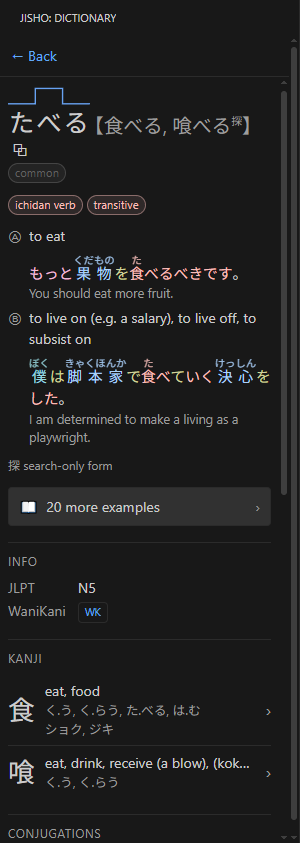
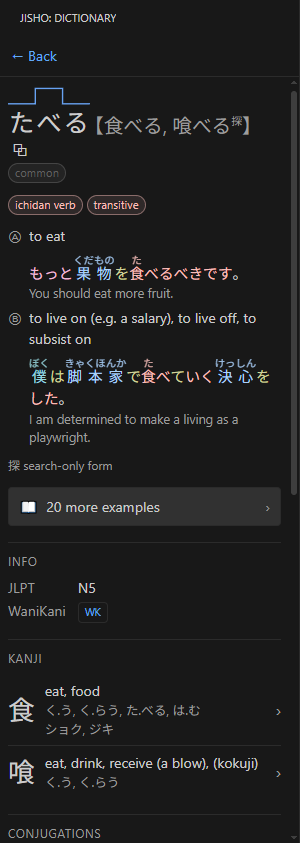
fix(docs): capture the hover on Markdown, and spec code-file support (#18)
The editor-hover screenshot was skipped as "flaky automation". It was not: the
hover provider registers for ["markdown", "plaintext"] only, so hovering
Japanese in a .ts comment does nothing. Every failure was the feature correctly
not applying, and several rounds went into automation theories — TypeScript's
hover winning the dwell, Monaco virtualising lines, character offsets landing in
the wrong span — before checking whether the provider was there at all.

The capture now uses the Markdown study-note fixture and passes, showing a real
entry: reading, definition, POS pills, an example sentence, "Open in Jisho".

Spec 18 records what a code-file version needs. It also answers the user's
question about `/* md */` language hints: those work by injecting a TextMate
grammar, which drives COLOURING only — it does not register a hover provider and
does not change `document.languageId`, so our selector still would not match.
The two mechanisms are separate in VS Code's own docs. Comments-only is the
recommended target, and it is the better one anyway: measured, a string literal
is contested (TypeScript wins the position) while a comment has no competing
provider and is unambiguously prose.

`checkout.ts` is kept as a fixture — it is the scenario to capture once spec 18
ships.

Changed region(s): [[0.9, 0.0308, 0.99, 0.987], [0.81, 0.8944, 0.87, 0.9253], [0.93, 0.987, 0.96, 1.0]]

diff --git a/e2e/docs/manual.docs.e2e.ts b/e2e/docs/manual.docs.e2e.ts
@@ -209,65 +209,38 @@ test("capture: browsing by category", async () => {
   });
 });
 
-/**
- * UNFINISHED — the editor hover capture.
- *
- * WHY it is wanted: hovering Japanese in a codebase is the extension's home turf, and the one thing
- * a screenshot shows that prose cannot — a definition arriving without leaving the file.
- *
- * WHY it is skipped: driving VS Code's hover from Playwright is the flakiest thing in this harness,
- * and it resisted several rounds. What was established along the way, so the next attempt does not
- * repeat it:
- *
- *  - Inside a STRING literal, TypeScript's language service owns the position and wins the dwell —
- *    the card said "(property) outOfStock: …" rather than showing the dictionary entry.
- *  - Monaco VIRTUALISES lines: an off-screen one measures 0×0 at (0,0), so the pointer goes to the
- *    window's corner, and `scrollIntoViewIfNeeded` fails with "Element is not attached to the DOM".
- *    Move the cursor (Go to Line) instead of scrolling a locator.
- *  - `hoverEditorWord` indexes characters into the line's FIRST text span, so leading indentation
- *    and syntax-highlighting splits both shift every offset. The fixture now carries an unindented
- *    top-level comment for this reason.
- *  - The card renders its shell before the provider resolves, so a capture can catch "(loading...)".
- *    Assert on the content, not just the card.
- *
- * Even with all of that, the dwell does not reliably produce a card here while the sidebar is open;
- * `smoke.e2e.ts` drives the same helper successfully against an UNTITLED editor, which is the next
- * thing to try. Until it is solved the README uses the panel captures, which all work.
- */
-test.skip("capture: a hover in a source file", async () => {
+test("capture: a hover in a study note", async () => {
+  // WHY: a definition arriving without leaving the file is the one thing a screenshot shows that
+  // prose cannot.
+  //
+  // A MARKDOWN fixture, not a code file. The hover provider registers for ["markdown", "plaintext"]
+  // only (src/extension.ts), so Japanese in a .ts comment gets nothing — which is what several
+  // rounds of failed automation here were actually telling us. Spec 18 covers extending it; until
+  // then, capturing markdown is what the extension honestly does.
   const win = vscode!.window;
   await captureBothThemes(
     vscode!,
     "editor-hover",
     async () => {
-      await openFixture(win, "checkout.ts");
-      // The fixture carries an UNINDENTED top-level `//` comment for exactly this capture, and the
-      // choice is load-bearing twice over. Measured: hovering Japanese inside a STRING literal got
-      // TypeScript's own hover instead — "(property) outOfStock: ..." — because the language
-      // service owns that position and wins the dwell. And `hoverEditorWord` indexes characters
-      // into the line's first text span, so any leading indentation shifts every offset.
-      //
+      await openFixture(win, "reading-notes.md");
       // Near the top of the file, so nothing needs scrolling: Monaco virtualises its lines, and an
       // off-screen one measures 0x0 at (0,0), which puts the pointer in the window's corner.
       const line = win
-        .locator(".view-line", { hasText: "在庫を確認してから決済に進みます" })
+        .locator(".view-line", { hasText: "毎日日本語を勉強します" })
         .first();
       await expect(line).toBeVisible();
-      // Index 3 skips the "// " prefix; the word is the first thing after it.
       const hover = await hoverEditorWord(
         win,
-        "在庫を確認してから決済に進みます",
-        3,
-        18,
-        "在庫"
+        "毎日日本語を勉強します",
+        0,
+        11,
+        "毎日"
       );
-      // Wait for the ENTRY, not merely the card. VS Code renders the hover shell immediately and
-      // fills it in when the provider resolves, so an earlier capture caught "(loading...)" — a
-      // picture of the extension appearing not to work.
+      // Wait for the ENTRY, not merely the card: VS Code renders the hover shell immediately and
+      // fills it in when the provider resolves, so a capture can catch "(loading...)".
       await expect(hover).not.toContainText("loading");
       return hover;
-      // `keepPointer`: the hover card IS the subject here, and parking the pointer dismisses it — the
-      // card then detaches and the screenshot fails on a stale element.
+      // `keepPointer`: the card IS the subject, and parking the pointer dismisses it.
     },
     { keepPointer: true }
   );

diff --git a/docs/specs/18-japanese-in-code-files.md b/docs/specs/18-japanese-in-code-files.md
@@ -1,0 +1,70 @@
+# Spec 18 — Japanese in code files: hover and highlighting beyond Markdown
+
+**Backlog:** new. **Status:** SPECIFIED, not implemented. Found while building the documentation screenshots (spec 17).
+
+## The finding
+
+The editor features are registered for **two languages only**:
+
+```ts
+// src/extension.ts:152
+vscode.languages.registerHoverProvider(["markdown", "plaintext"], { … })
+
+// src/host/posDecorations.ts:26
+export const DECORATED_LANGUAGES = ["markdown", "plaintext"];
+```
+
+So hovering Japanese in a `.ts`, `.py` or `.go` file does nothing. This was discovered the expensive way: a documentation screenshot of "hover a Japanese comment in a TypeScript file" was written, failed, and was debugged through several rounds of automation theories — TypeScript's own hover winning the dwell, Monaco virtualising off-screen lines, character offsets landing in the wrong span — before the actual cause turned out to be that **the feature does not apply there at all**.
+
+That scenario was assumed to work by both the user and the implementer. It reads as the extension's home turf — a developer reading a codebase with Japanese comments is exactly who this is for — which is why nobody questioned it.
+
+## What is wanted
+
+Japanese **in comments**, in ordinary source files. The user's framing: _"if all we could get is just support for comments in other languages, that would be fine; I don't necessarily need every string to be supported."_
+
+That narrower target is also the better one, and not only for effort:
+
+- **String literals are contested.** Measured during the screenshot work: hovering Japanese inside a TypeScript string literal produced TypeScript's own hover (`(property) outOfStock: "…"`) rather than the dictionary's. The language service owns that position and wins. A comment has no competing provider.
+- **A comment is unambiguously prose.** A string literal may be an identifier, a key, a URL, or a format template — tokenizing it as Japanese is sometimes wrong. A Japanese comment is always Japanese being read by a human.
+
+## The `/* md */` question, answered
+
+The user asked whether a language hint would help:
+
+```ts
+const md = /* md */ `some **markdown** in a template literal`;
+```
+
+**It would not, on its own.** That pattern is provided by extensions such as [comment-tagged-templates](https://github.com/mjbvz/vscode-comment-tagged-templates), and it works by **injecting a TextMate grammar** into the tagged range. TextMate grammars drive _syntax highlighting_ — they colour text. They do not register hover providers, and they do not change which `languageId` a document reports.
+
+The two mechanisms are separate ([Syntax Highlight Guide](https://code.visualstudio.com/api/language-extensions/syntax-highlight-guide)):
+
+| Mechanism        | What it does                            | Relevant here?                     |
+| ---------------- | --------------------------------------- | ---------------------------------- |
+| TextMate grammar | Lexical colouring, single file          | No — colour only, no hover         |
+| Semantic tokens  | Colouring informed by a language server | No — same, colour only             |
+| Hover provider   | Content on dwell, per document selector | **Yes** — this is what we register |
+
+So a `/* md */` hint makes an editor _paint_ the literal as Markdown while `document.languageId` stays `typescript`. Our selector still does not match. The hint is a red herring for hover — but it is a real signal we could CHOOSE to honour, and worth keeping in mind for the string-literal case if it is ever pursued.
+
+## How to find comments
+
+`document.languageId` is the wrong axis on its own — matching `["typescript", "python", …]` would enable hover across whole files, including strings and identifiers.
+
+Two approaches, in preference order:
+
+1. **Ask the tokenizer nothing; ask the grammar.** VS Code does not expose TextMate scopes to extensions ([microsoft/vscode#580](https://github.com/microsoft/vscode/issues/580) is the long-standing request). The workaround the ecosystem uses is [vscode-textmate](https://github.com/microsoft/vscode-textmate) directly — running the grammar in-process — which means shipping and maintaining grammar resolution. Heavy.
+
+2. **Detect comment syntax per language.** A small table of line/block comment delimiters (`//`, `#`, `--`, `/* */`, `<!-- -->`, `"""`), applied to the line under the cursor. Crude, and wrong inside a string containing `//` — but the failure mode is a hover that offers a definition for Japanese text that is genuinely there, which is benign. This is what the existing `stripRuby` machinery already does in spirit: work on the line, not the AST.
+
+**Recommendation: (2), gated by a setting.** The existing `hover.enabled` covers markdown/plaintext; a separate `hover.codeComments` (default off) avoids changing behaviour for anyone who did not ask for it, and avoids the extension appearing in every language's hover stack by default.
+
+## Scope and open questions for the implementer
+
+- Which languages? A curated list is predictable but needs maintenance; `"*"` with comment detection is broader but appears everywhere. **Ask the user.**
+- Do the POS decorations follow the same rule? They share `DECORATED_LANGUAGES`, and colouring only comments in a code file may look arbitrary next to coloured syntax. Possibly hover-only to start.
+- Ruby markup (`{食|た}べる`) in a code comment is unlikely but the machinery is shared, so it costs nothing to keep working.
+
+## Until then
+
+The documentation describes what the extension does: hover and highlighting work in **Markdown and plain text**. The README's screenshots use those fixtures rather than promising a code-file scenario the extension does not support. `e2e/docs/fixtures/checkout.ts` is retained — it is the scenario to capture once this ships.

diff --git a/docs/specs/README.md b/docs/specs/README.md
@@ -41,6 +41,7 @@ Detailed, self-contained specs for the remaining polish/feature work, written fo
 | 15  | [Re-deriving the schema from the queries we actually run](15-schema-for-the-remaining-backlog.md)               | #27/#35/#51 | **Implemented** (schema v5); BCCWJ seam design-only  |
 | 16  | [Tabbed navigation, and Kanji + Kana browse](16-tabbed-navigation-and-browse.md)                                | #54 (ext.)  | **Implemented** — all three steps shipped            |
 | 17  | [The README as a user manual, and self-regenerating screenshots](17-documentation-and-screenshots.md)           | docs        | Specified — voice, structure and constraints settled |
+| 18  | [Japanese in code files: hover and highlighting beyond Markdown](18-japanese-in-code-files.md)                  | new         | Specified — comments-only, `/* md */` ruled out      |
 
 Not yet specced: the #32 word-detail layout redesign, and the visual-regression baseline procedure.
 
